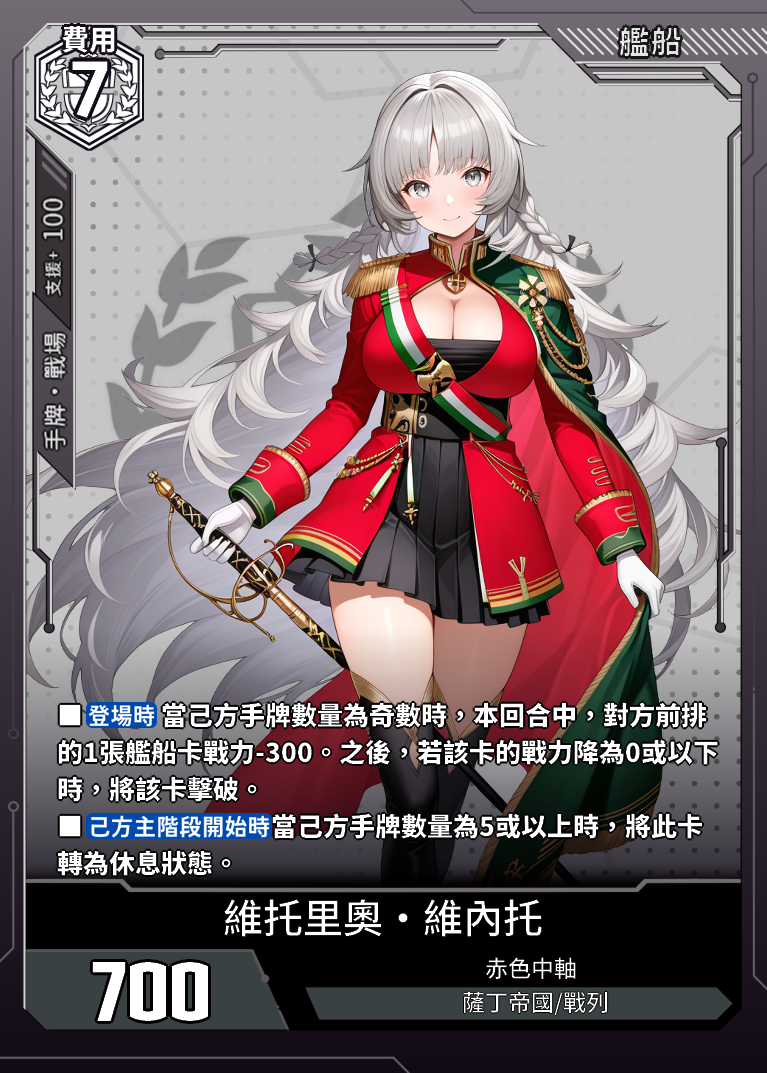
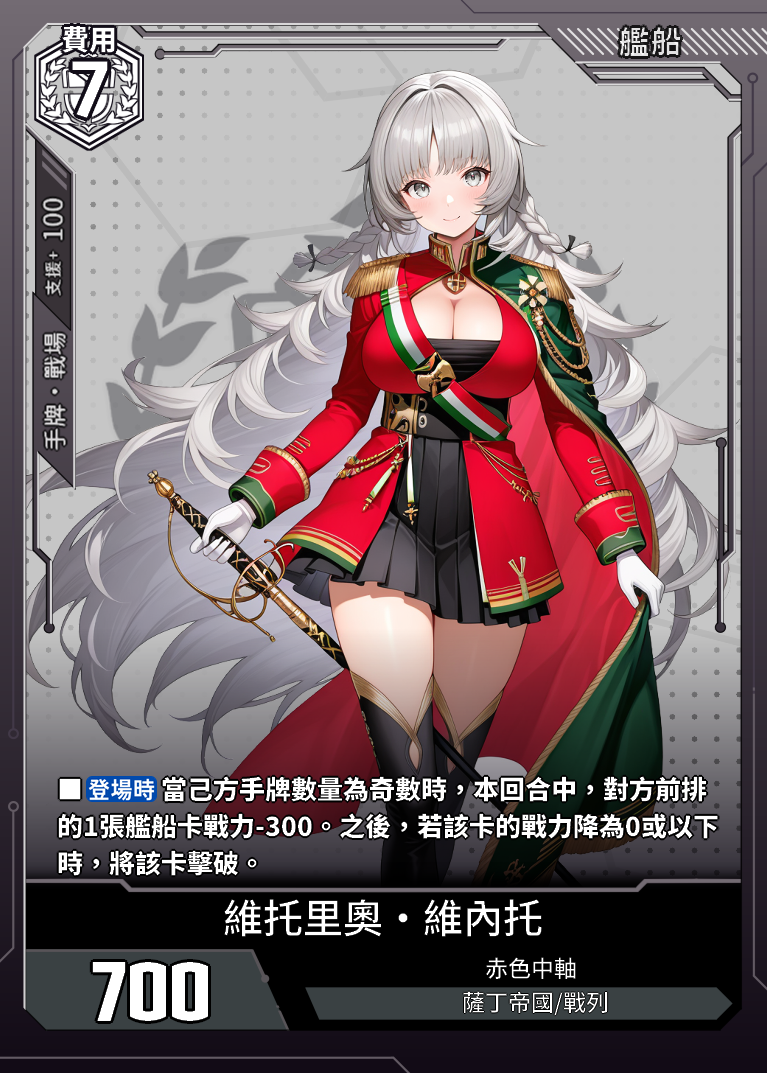
修改VV跟北卡

Changed region(s): [[0.06, 0.6459, 0.9596, 0.8304]]

diff --git a/data.js b/data.js
@@ -24353,9 +24353,9 @@ const cards = [
             "罕　貴": "-",
             "勢　力": "碧藍航線",
             "支援範圍": "戰場",
-            "支援值": "0"
+            "支援值": "100"
         },
-        "card_effect": "■【遠程】■【固守+100】",
+        "card_effect": "■【遠程】■【登場時】可以將己方的旗艦卡轉為休息狀態：抽1張卡，將1張手牌置於卡組最上方或最下方。",
         "acquisition_method": "CE02-早期測試"
     },
 	{
@@ -25210,7 +25210,7 @@ const cards = [
             "支援範圍": "手牌·戰場",
             "支援值": "100"
         },
-        "card_effect": "■【登場時】當己方手牌數量為奇數時，本回合中，對方前排的1張艦船卡戰力-300。之後，若該卡的戰力降為0或以下時，將該卡擊破。■【己方主階段開始時】當己方手牌數量為5或以上時，將此卡轉為休息狀態。",
+        "card_effect": "■【登場時】當己方手牌數量為奇數時，本回合中，對方前排的1張艦船卡戰力-300。之後，若該卡的戰力降為0或以下時，將該卡擊破。",
         "acquisition_method": "CE02-早期測試"
     },
 	{
